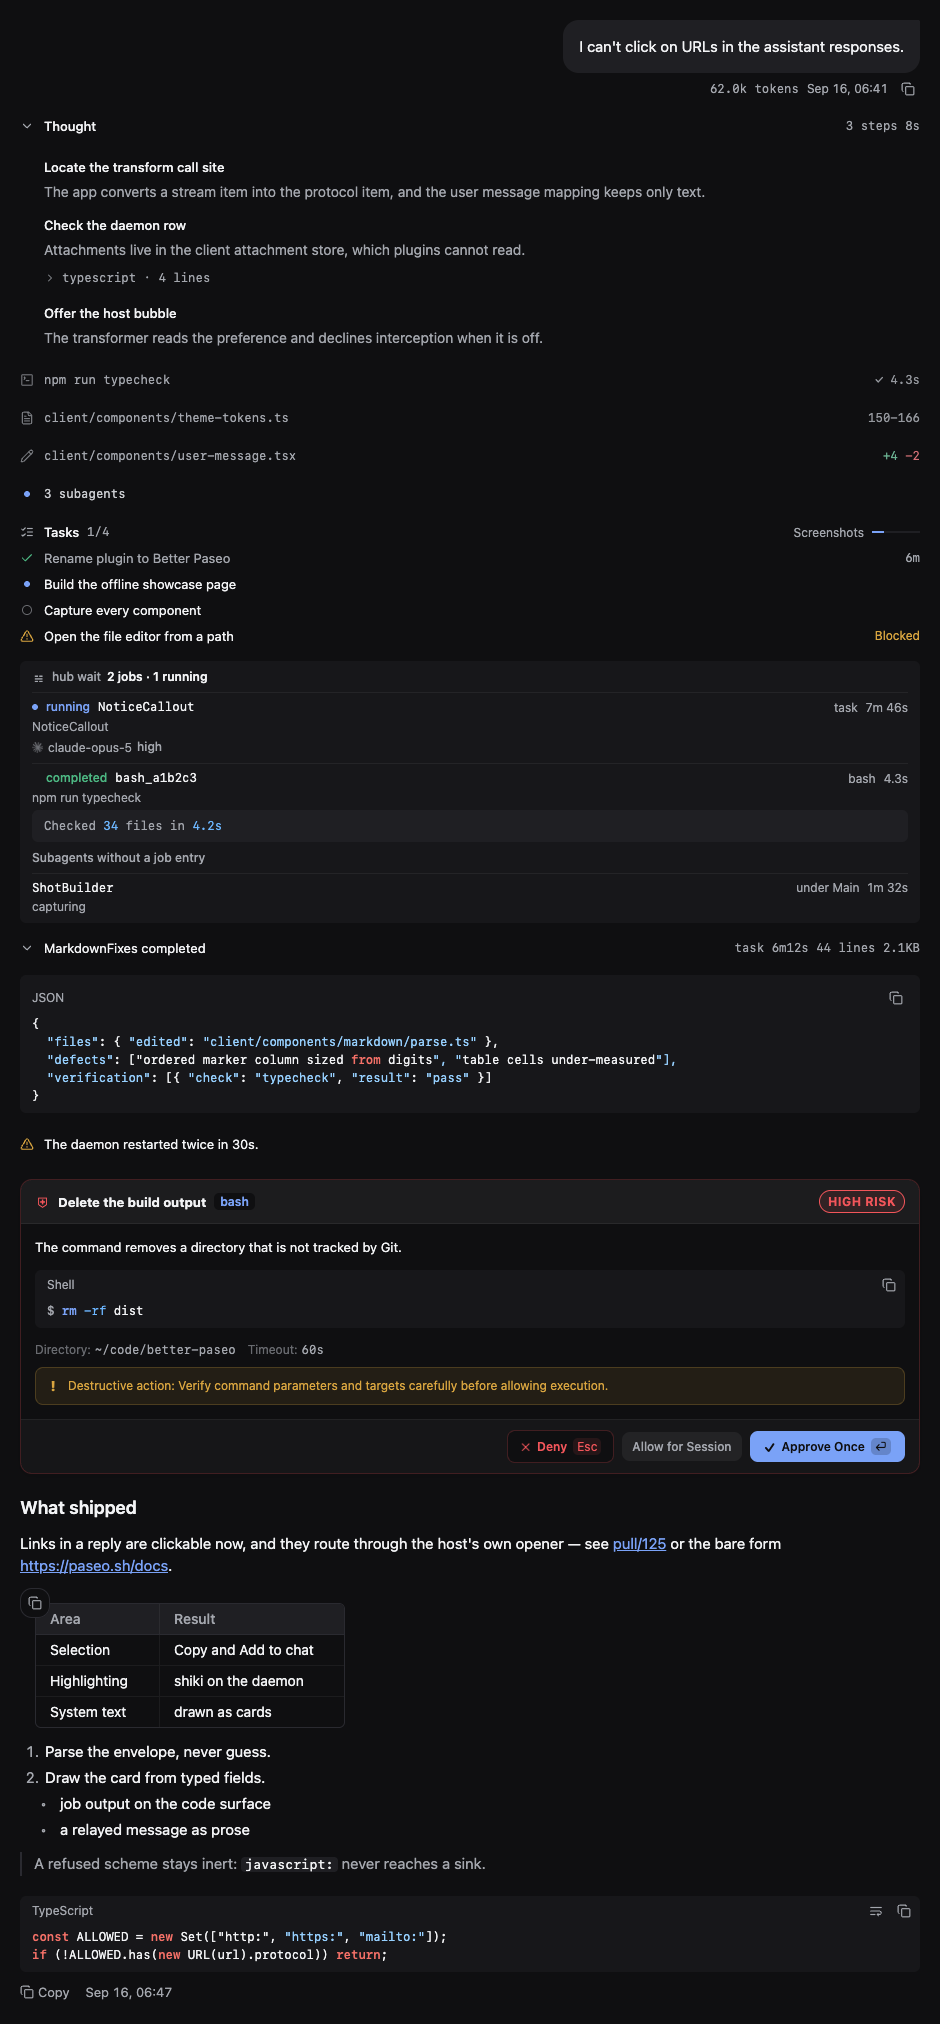
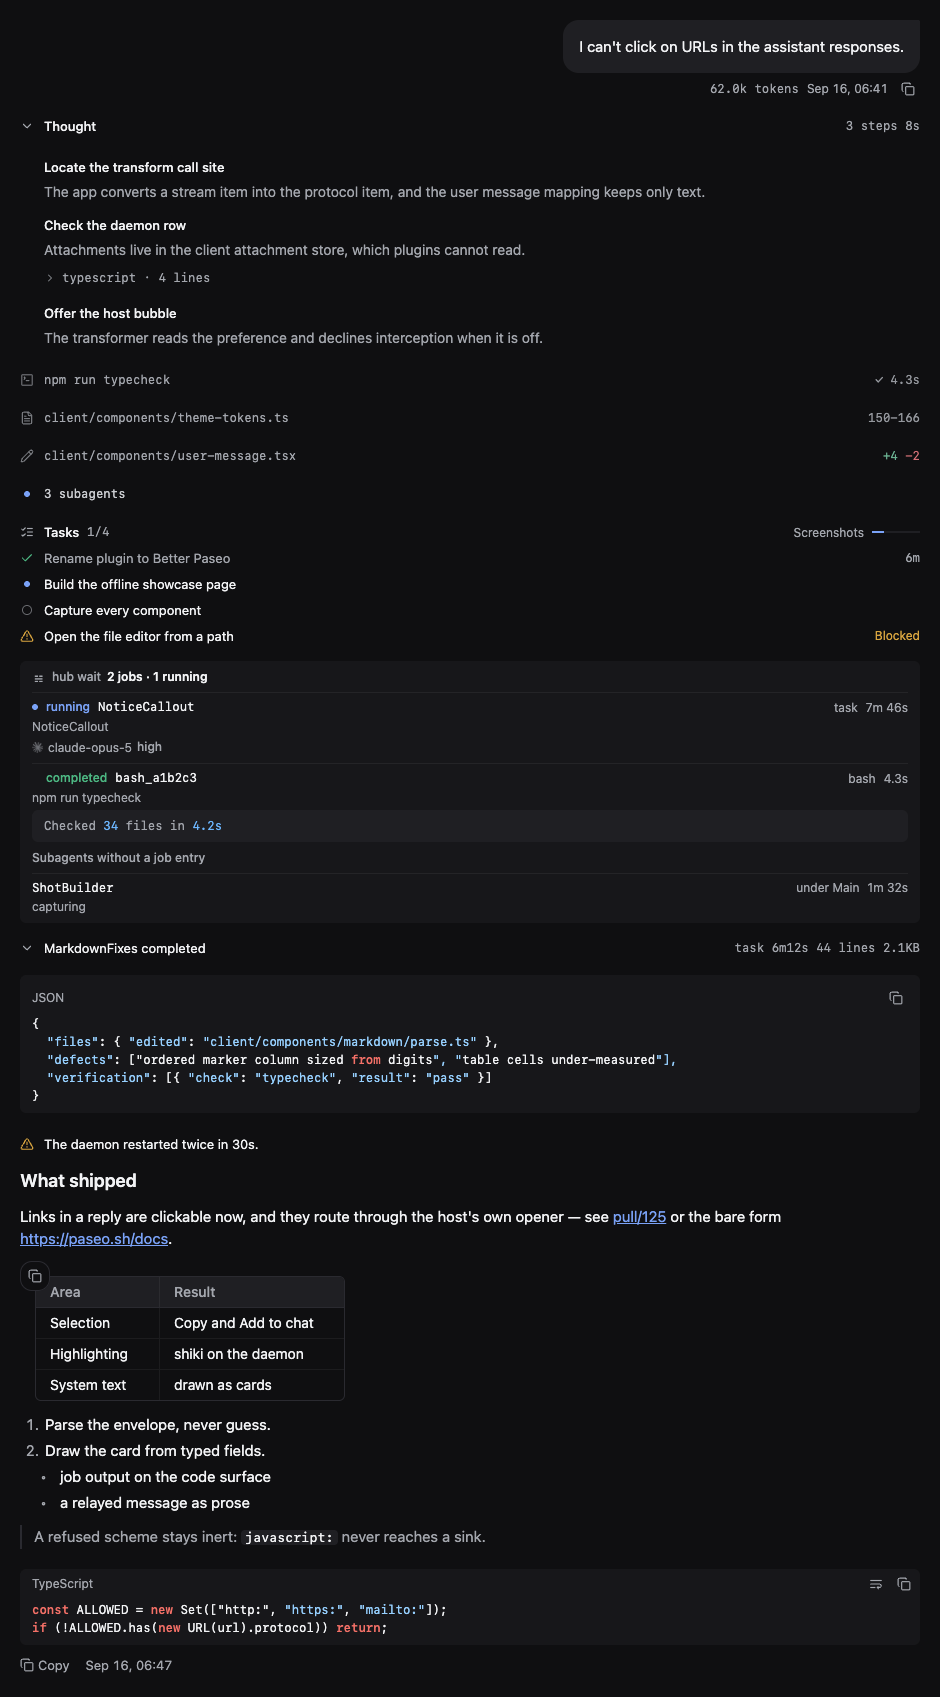
docs(readme): clarify that the plugin redraws every agent timeline, not only OMP
- Transformers register by entry type without provider filtering, covering Claude Code, Codex, and Oh My Pi; update the README introduction and package description
- Explain which tool cards are shared and which are specific to Oh My Pi hub/eval/ask/task and GitHub device calls
- Approval cards were never connected to the timeline; Paseo still renders permission requests. Remove the approval section and approval.png, omit approval cards from showcase, and regenerate thread.png
- Add Errors and system messages: error entries use notice cards, while Oh My Pi task results, forwarded messages, and reminders use system cards

diff --git a/.showcase/showcase.tsx b/.showcase/showcase.tsx
@@ -655,7 +655,6 @@ function Thread() {
         data={{ id: "n1", level: "warning", message: "The daemon restarted twice in 30s." }}
         tokens={tokens}
       />
-      <ApprovalCard request={approval} tokens={tokens} />
       <View>
         <MarkdownView text={REPLY} tokens={tokens} variant="document" />
         <AssistantFooter text={REPLY} at={new Date("2026-09-15T22:47:12Z")} tokens={tokens} />

diff --git a/README.md b/README.md
@@ -2,9 +2,10 @@
 
 **English** | [简体中文](README-zh.md)
 
-A [Paseo](https://paseo.sh) plugin that redraws the Oh My Pi (OMP) chat timeline: tool calls,
-reasoning, replies, prompts, approvals and checklists become compact, typed, syntax-aware rows that
-follow the active Paseo theme, and the whole timeline renders faster than Paseo does on its own.
+A [Paseo](https://paseo.sh) plugin that redraws the chat timeline of every agent Paseo runs,
+whichever provider is behind it (Claude Code, Codex, Oh My Pi and the rest): tool calls, reasoning,
+replies, prompts, checklists and errors become compact, typed, syntax-aware rows that follow the
+active Paseo theme, and the whole timeline renders faster than Paseo does on its own.
 
 ![One turn drawn by Better Paseo: a prompt, a file read, a finished background job and the reply](images/hero.png)
 
@@ -165,6 +166,12 @@ highlighting, image reads, file reveal and the plugin's own find bar.
 
 ### Tool rows
 
+Most cards read the tool detail Paseo hands every plugin, so they work whichever agent made the
+call: reads, writes, edits, shell and Git commands, searches, fetches, sub-agents, plans, MCP calls
+(in Claude's `mcp__server__tool`, Codex's `server.tool` and Oh My Pi's `server / tool` forms) and
+Paseo's own tools. Oh My Pi's own tools `hub`, `eval`, `ask` and `task`, and its GitHub device
+calls, have cards of their own; other agents never send them.
+
 - Every call starts as one borderless row, 26pt on desktop and 28pt on touch, with a summary built
   for its type: the command, the path and line range, `+4 −2` for an edit, the exit code and
   duration. A press opens the card.
@@ -175,17 +182,18 @@ highlighting, image reads, file reveal and the plugin's own find bar.
 - Rows keep the time they first appeared, so parallel reads no longer reorder or change spacing
   when one finishes first.
 - Row heads show an icon, a label or both. Long code and terminal output fold to 12 lines.
-- Every `hub` op has a card: processes, messages and job snapshots. Paseo's own tools carry the
-  Paseo mark, and a created agent its provider's mark.
+- Paseo's own tools carry the Paseo mark, and a created agent its provider's mark.
+- Every op of Oh My Pi's `hub` tool has a card: processes, messages and job snapshots. The cards
+  report; they carry no buttons, since a plugin cannot restart or cancel anything.
 
 | Shell and Git | Read |
 | --- | --- |
 | ![Shell and Git tool calls](docs/images/tool-bash.png) | ![Read tool call](docs/images/tool-read.png) |
-| **Edit** | **Hub** |
+| **Edit** | **Hub** (Oh My Pi) |
 | ![Edit tool call](docs/images/tool-edit.png) | ![Hub tool calls](docs/images/hub.png) |
 
 <details>
-<summary>More cards: MCP, Eval, Ask, Task, Paseo tools, reasoning tool, image read, syntax block</summary>
+<summary>More cards: MCP, Paseo tools, image read, syntax block, a <code>thinking</code> tool, and Oh My Pi's Eval, Ask and Task</summary>
 
 ![MCP tool call](docs/images/tool-mcp.png)
 ![Eval tool call](docs/images/tool-eval.png)
@@ -260,12 +268,15 @@ It cannot show pasted images; rewind stays wherever the running Paseo provides i
 
 ![Prompt bubble](docs/images/user.png)
 
-### Approvals
+### Errors and system messages
 
-Risk classification, the exact command, target path and working directory; the approve and deny
-actions remain the host's.
+- An agent error is drawn as a notice card carrying its message.
+- Oh My Pi sends job results, relayed messages and reminders as message text wrapped in tags such
+  as `<system-notice>` or `<irc>`, and Paseo files them as replies. With **Plugin markdown for
+  replies** on, they are drawn as system cards (a title, chips for agent, status and duration, and
+  the rest of the body) instead of raw XML.
 
-![Approval card](docs/images/approval.png)
+Permission requests are not redrawn: Paseo draws them and owns the approve and deny actions.
 
 ---
 
